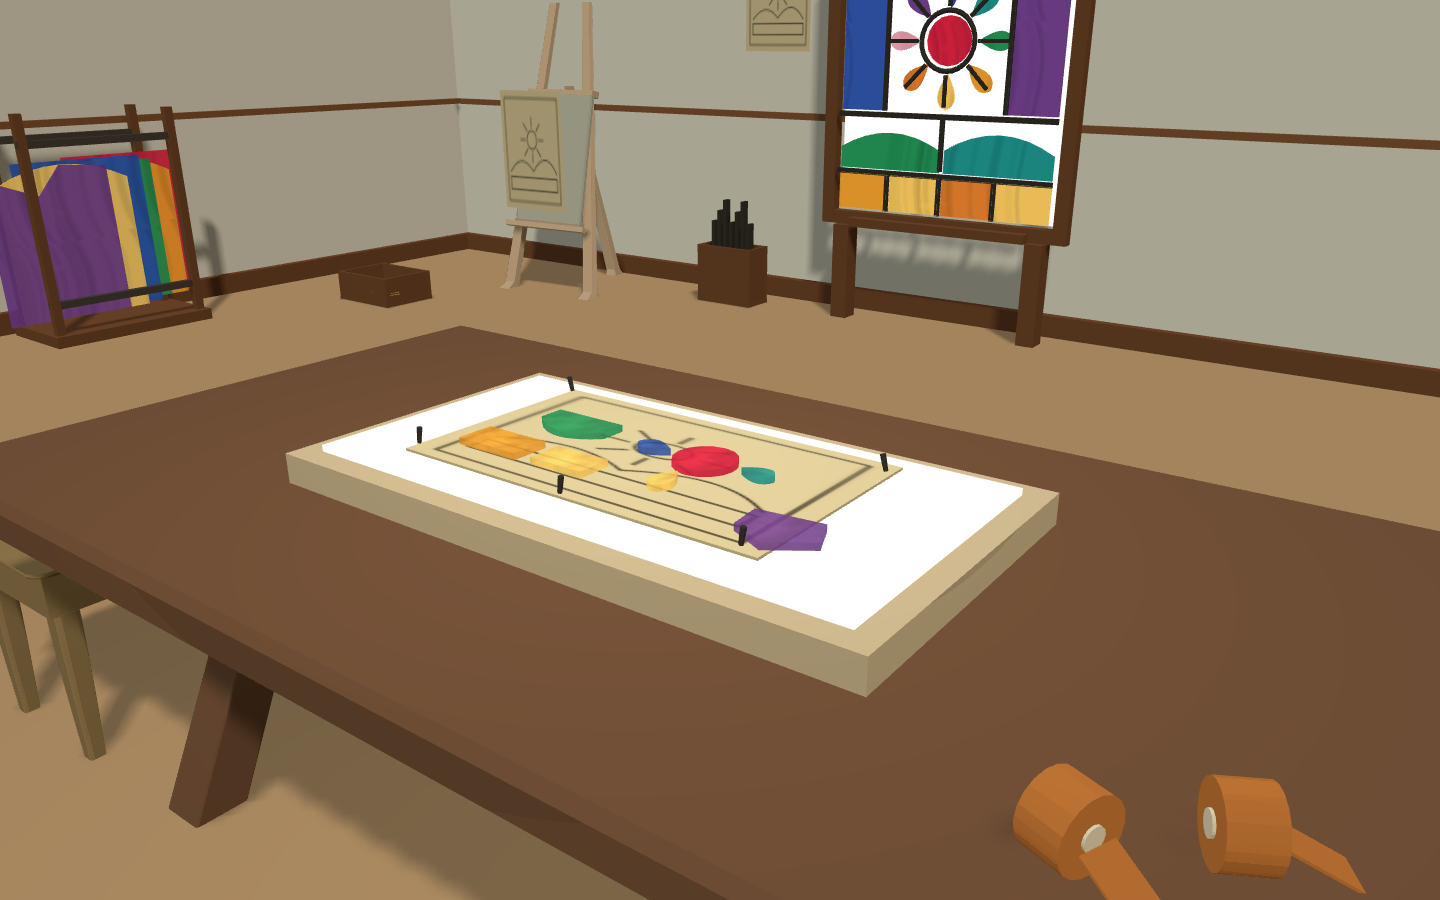
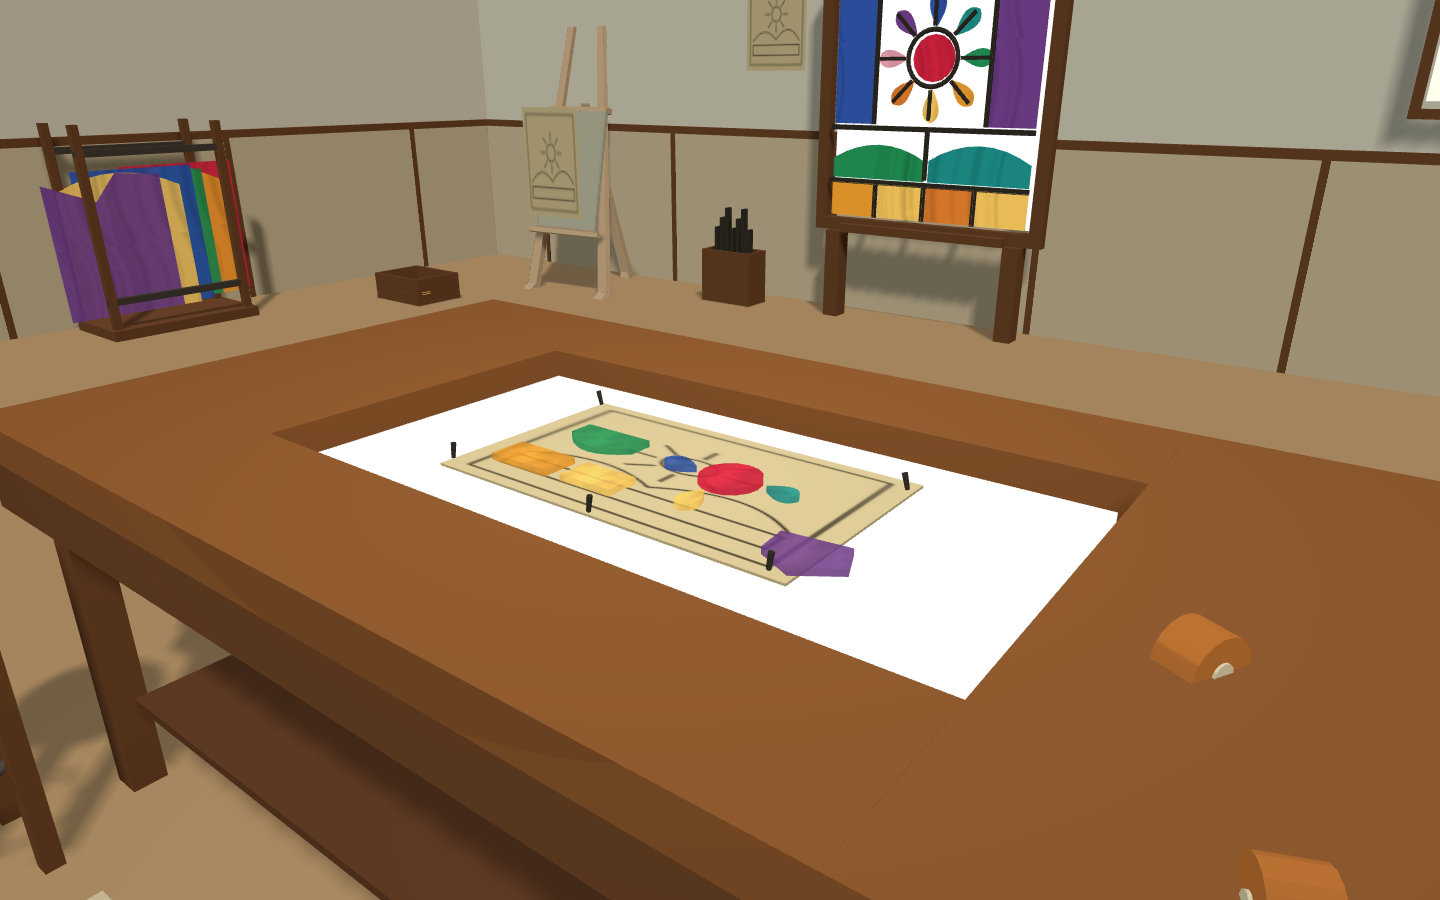
Tighten the stained-glass shop so the stations read as workbenches.
Replace the dining trestle, student desk, and cafe chair with shop benches and four-leg stools, recess the light well, finish the ceiling, and add a dado plus one hanging panel. Pull the default and corner cameras in so the racks, window, light table, and solder hood share the frame.

diff --git a/experiments/indoor30-20261113/stained-glass/stained.js b/experiments/indoor30-20261113/stained-glass/stained.js
@@ -378,25 +378,79 @@ function addRacks(g, racks, shell) {
   });
 }
 
+function addWorkbench(g, spec, shell) {
+  const { x, z, w, d, top } = spec;
+  const wood = toon(shell.woodColor);
+  const slab = toon('#9a6238');
+  const leg = 0.065;
+  const legH = top - 0.08;
+  const inset = 0.055;
+  if (spec.recess) {
+    const ww = spec.wellW;
+    const wd = spec.wellD;
+    const railX = (w - ww) / 2;
+    const railZ = (d - wd) / 2;
+    const y = top - 0.035;
+    addBox(g, railX, 0.07, d, slab, x - (ww + railX) / 2, y, z);
+    addBox(g, railX, 0.07, d, slab, x + (ww + railX) / 2, y, z);
+    addBox(g, ww, 0.07, railZ, slab, x, y, z - (wd + railZ) / 2);
+    addBox(g, ww, 0.07, railZ, slab, x, y, z + (wd + railZ) / 2);
+    const bed = addBox(
+      g, ww - 0.06, 0.016, wd - 0.05,
+      toon('#fff8ee', { emissive: '#fff4e0', emissiveIntensity: 1.3 }),
+      x, top - 0.052, z,
+    );
+    tagShadow(bed, false);
+  } else {
+    addBox(g, w, 0.07, d, slab, x, top - 0.035, z);
+  }
+  const apronH = 0.1;
+  const apronY = top - 0.12;
+  addBox(g, w - 0.02, apronH, 0.028, wood, x, apronY, z + d / 2 - 0.02);
+  addBox(g, w - 0.02, apronH, 0.028, wood, x, apronY, z - d / 2 + 0.02);
+  addBox(g, 0.028, apronH, d - 0.08, wood, x - w / 2 + 0.02, apronY, z);
+  addBox(g, 0.028, apronH, d - 0.08, wood, x + w / 2 - 0.02, apronY, z);
+  for (const sx of [-1, 1]) {
+    for (const sz of [-1, 1]) {
+      addBox(
+        g, leg, legH, leg, wood,
+        x + sx * (w / 2 - inset - leg / 2),
+        legH / 2,
+        z + sz * (d / 2 - inset - leg / 2),
+      );
+    }
+  }
+  addBox(g, w - 0.28, 0.018, d - 0.18, toon('#6a432c'), x, 0.2, z);
+}
+
+function addStool(g, x, z, shell) {
+  const wood = toon(shell.woodColor);
+  const seatY = 0.62;
+  addCyl(g, 0.155, 0.16, 0.042, toon('#9a6238'), x, seatY, z, 16);
+  const legH = seatY - 0.03;
+  for (const sx of [-1, 1]) {
+    for (const sz of [-1, 1]) {
+      addBox(g, 0.034, legH, 0.034, wood, x + sx * 0.1, legH / 2, z + sz * 0.1);
+    }
+  }
+  const ring = new THREE.Mesh(new THREE.TorusGeometry(0.115, 0.008, 6, 18), toon('#5c564f'));
+  ring.rotation.x = Math.PI / 2;
+  ring.position.set(x, 0.22, z);
+  ring.castShadow = false;
+  g.add(ring);
+}
+
 function addLightTable(g, zone, shell) {
   const { x, z, top } = zone;
-  const wood = toon('#d9c4a2');
-  const box = addBox(g, 1.04, 0.05, 0.56, wood, x, top + 0.025, z);
-  box.castShadow = true;
-  const panel = addBox(
-    g, 0.96, 0.014, 0.48,
-    toon('#fff8ee', { emissive: '#fff4e0', emissiveIntensity: 1.35 }),
-    x, top + 0.054, z,
-  );
-  tagShadow(panel, false);
+  addWorkbench(g, { ...zone, recess: true }, shell);
   const paper = addBox(
     g, 0.66, 0.004, 0.38,
     toon('#f3ead2', { map: cartoon(), polygonOffset: true, polygonOffsetFactor: -1, polygonOffsetUnits: -1 }),
-    x - 0.02, top + 0.064, z - 0.01,
+    x - 0.02, top - 0.038, z - 0.01,
   );
   tagShadow(paper, false);
 
-  const y = top + 0.074;
+  const y = top - 0.028;
   const see = { opacity: 0.62, glow: 0.48 };
   addFlatGlass(g, rect(0.12, 0.065), GLASS.amber, x - 0.22, y, z + 0.1, see);
   addFlatGlass(g, rect(0.1, 0.06), GLASS.gold, x - 0.08, y, z + 0.1, see);
@@ -416,11 +470,12 @@ function addLightTable(g, zone, shell) {
     n.castShadow = false;
   });
 
-  foilRoll(g, shell, x + 0.9, top, z + 0.32, 0.5);
-  foilRoll(g, shell, x + 0.78, top, z + 0.4, -0.4);
+  foilRoll(g, shell, x + zone.w / 2 - 0.22, top - 0.04, z + zone.d / 2 - 0.16, 0.4);
+  foilRoll(g, shell, x + zone.w / 2 - 0.34, top - 0.04, z + 0.12, -0.5);
 }
 
 function addSolder(g, zone, vent, shell) {
+  addWorkbench(g, zone, shell);
   const y = zone.top;
   const ix = zone.ironX;
   const z = zone.z + 0.02;
@@ -504,6 +559,7 @@ function addSolder(g, zone, vent, shell) {
 }
 
 function addCutting(g, zone, shell) {
+  addWorkbench(g, zone, shell);
   const { x, z, top } = zone;
   const y = top + 0.01;
   addFlatGlass(g, rect(0.22, 0.14), GLASS.amber, x - 0.06, y, z + 0.02, { opacity: 0.84, glow: 0.3 });
@@ -611,21 +667,67 @@ function addStorage(g, layout, shell) {
   g.add(board);
 }
 
+function addWallPanel(g, shell) {
+  const x = 0.95;
+  const y0 = 1.18;
+  const z = -3.84;
+  const w = 0.58;
+  const h = 0.7;
+  const wood = toon(shell.woodColor);
+  addBox(g, w, 0.04, 0.04, wood, x, y0, z);
+  addBox(g, w, 0.04, 0.04, wood, x, y0 + h, z);
+  addBox(g, 0.04, h, 0.04, wood, x - w / 2 + 0.02, y0 + h / 2, z);
+  addBox(g, 0.04, h, 0.04, wood, x + w / 2 - 0.02, y0 + h / 2, z);
+  const glow = addBox(
+    g, w - 0.1, h - 0.1, 0.012,
+    toon('#fff6e8', { emissive: '#fff1d4', emissiveIntensity: 0.85 }),
+    x, y0 + h / 2, z - 0.012,
+  );
+  tagShadow(glow, false);
+  const grp = new THREE.Group();
+  grp.position.set(x, y0 + h / 2, z);
+  addUprightGlass(grp, disk(0, 0, 0.09), GLASS.ruby, 0.012, { glow: 0.55, opacity: 0.9 });
+  const colors = [GLASS.gold, GLASS.emerald, GLASS.cobalt, GLASS.amber, GLASS.teal, GLASS.violet];
+  for (let i = 0; i < 6; i++) {
+    const a = -Math.PI / 2 + (i * Math.PI) / 3;
+    addUprightGlass(grp, petal(0, 0, a, 0.11, 0.2, 0.38), colors[i], 0.01, { glow: 0.45, opacity: 0.88 });
+  }
+  const ring = new THREE.Mesh(new THREE.TorusGeometry(0.105, 0.008, 6, 20), toon(shell.leadColor));
+  ring.position.z = 0.02;
+  ring.castShadow = false;
+  grp.add(ring);
+  g.add(grp);
+}
+
 function makeShell(layout) {
   const room = layout.meta.room;
   const g = makeCutawayShell(layout, {
-    ceilingW: room.width * 0.98,
-    ceilingD: room.depth * 0.62,
-    ceilingX: -0.15,
-    ceilingZ: -1.35,
+    ceilingW: room.width,
+    ceilingD: room.depth,
+    ceilingX: 0,
+    ceilingZ: 0,
   });
   const { width: W, depth: D, height: H } = room;
   const wood = toon(layout.shell.woodColor);
   const trim = toon(layout.shell.trimColor);
-  addBox(g, W - 0.16, 0.11, 0.05, wood, 0, 0.055, -D / 2 + 0.1);
-  addBox(g, 0.05, 0.11, D - 0.16, wood, -W / 2 + 0.1, 0.055, 0);
-  addBox(g, W - 0.28, 0.035, 0.03, trim, 0, 1.02, -D / 2 + 0.09);
-  addBox(g, 0.03, 0.035, D - 0.4, trim, -W / 2 + 0.09, 1.02, -0.2);
+  const dado = toon(layout.shell.dadoColor || '#e3d2b8');
+  const dadoH = 0.98;
+  const backZ = -D / 2 + 0.09;
+  const leftX = -W / 2 + 0.09;
+  const backPanel = addBox(g, W - 0.2, dadoH, 0.03, dado, 0, dadoH / 2, backZ);
+  const leftPanel = addBox(g, 0.03, dadoH, D - 0.2, dado, leftX, dadoH / 2, 0);
+  backPanel.userData.noCast = true;
+  leftPanel.userData.noCast = true;
+  addBox(g, W - 0.16, 0.045, 0.045, wood, 0, dadoH + 0.02, backZ);
+  addBox(g, 0.045, 0.045, D - 0.16, wood, leftX, dadoH + 0.02, 0);
+  for (let x = -W / 2 + 0.7; x < W / 2 - 0.3; x += 1.25) {
+    const stile = addBox(g, 0.035, dadoH, 0.02, wood, x, dadoH / 2, backZ + 0.01);
+    stile.userData.noCast = true;
+  }
+  for (let z = -D / 2 + 0.8; z < D / 2 - 0.4; z += 1.35) {
+    const stile = addBox(g, 0.02, dadoH, 0.035, wood, leftX + 0.01, dadoH / 2, z);
+    stile.userData.noCast = true;
+  }
   const path = layout.zones.path;
   const mat = addBox(
     g, path.w, 0.012, path.d,
@@ -633,8 +735,13 @@ function makeShell(layout) {
     path.x, 0.006, path.z,
   );
   mat.castShadow = false;
-  const beamA = addBox(g, W * 0.72, 0.07, 0.08, trim, -0.35, H - 0.18, -2.55);
-  const beamB = addBox(g, W * 0.72, 0.07, 0.08, trim, -0.35, H - 0.18, -0.85);
+  const fascia = toon(layout.shell.trimColor);
+  const front = addBox(g, W, 0.2, 0.1, fascia, 0, H - 0.16, D / 2 - 0.05);
+  const right = addBox(g, 0.1, 0.2, D, fascia, W / 2 - 0.05, H - 0.16, 0);
+  front.userData.noCast = true;
+  right.userData.noCast = true;
+  const beamA = addBox(g, W * 0.86, 0.06, 0.08, trim, 0, H - 0.2, -2.2);
+  const beamB = addBox(g, W * 0.86, 0.06, 0.08, trim, 0, H - 0.2, -0.4);
   beamA.userData.noCast = true;
   beamB.userData.noCast = true;
   return g;
@@ -645,8 +752,10 @@ function makeProcedural(layout) {
   g.name = 'procedural';
   const shell = layout.shell;
   addWindow(g, layout.zones.window, shell);
+  addWallPanel(g, shell);
   addRacks(g, layout.zones.racks, shell);
   addLightTable(g, layout.zones.lightTable, shell);
+  for (const stool of layout.zones.stools) addStool(g, stool.x, stool.z, shell);
   addSolder(g, layout.zones.solder, layout.zones.vent, shell);
   addCutting(g, layout.zones.cutting, shell);
   addStorage(g, layout, shell);

diff --git a/experiments/indoor30-20261113/stained-glass/scene_lib.js b/experiments/indoor30-20261113/stained-glass/scene_lib.js
@@ -350,6 +350,10 @@ export async function boot(opts) {
       const p = presets[camKey];
       camera.position.set(...p.position);
       controls.target.set(...p.target);
+      if (p.fov) {
+        camera.fov = p.fov;
+        camera.updateProjectionMatrix();
+      }
       controls.update();
     }
 

diff --git a/experiments/indoor30-20261113/stained-glass/tests/layout_clearance.py b/experiments/indoor30-20261113/stained-glass/tests/layout_clearance.py
@@ -13,11 +13,6 @@ HTML = (ROOT / "index.html").read_text()
 
 # World-axis extents in metres, from node-transformed GLB bounds.
 NATIVE = {
-    "long_dining": (1.8000, 0.7273, 0.9376),
-    "piano_bench": (0.9018, 0.4726, 0.4351),
-    "study_desk": (0.3691, 0.6490, 1.1000),
-    "simple_chair": (0.4752, 0.8500, 0.5010),
-    "square_table": (1.2000, 1.1840, 1.2000),
     "wall_shelf": (0.7012, 0.8000, 0.2873),
     "easel": (0.7070, 1.7000, 0.8000),
     "pendant_lamp": (0.2463, 0.4490, 0.2463),
@@ -78,6 +73,10 @@ check("NearestFilter" in LIB, "toon gradient is not hard-stepped")
 check("MeshBasicMaterial" in LIB, "unlit path is missing")
 check("ExtrudeGeometry" in SCENE, "coloured glass is not extruded sheet")
 check("transparent: true" in SCENE, "coloured glass is opaque")
+check("function addWorkbench" in SCENE, "workbench silhouette missing")
+check("function addStool" in SCENE, "work stool missing")
+check("simple_chair" not in SCENE and "long_dining" not in SCENE, "dining table or cafe chair leaked back")
+check("ceilingD: room.depth" in SCENE, "ceiling does not span the room")
 check(SCENE.count("foil-roll") >= 1 or "foilRoll" in SCENE, "foil rolls missing")
 for banned in ("glory", "blowpipe", "lehr", "furnace", "marver"):
     check(banned not in SCENE.lower(), f"hot-shop term {banned} leaked into the cold shop")
@@ -100,8 +99,7 @@ for iid, box in boxes.items():
     check(box[3] < H + 0.02, f"{iid} pokes through the ceiling {box}")
     check(box[2] > -0.02, f"{iid} is below the floor {box}")
 
-skip_kinds = {("jam_jar", "study_desk"), ("jam_jar", "square_table"), ("jam_jar", "wall_shelf"),
-              ("library_lamp", "study_desk")}
+skip_kinds = {("jam_jar", "wall_shelf")}
 ids = list(instances)
 for i, a in enumerate(ids):
     for b in ids[i + 1:]:
@@ -112,12 +110,10 @@ for i, a in enumerate(ids):
             fails.append(f"overlap {a} and {b}")
 
 zones = LAYOUT["zones"]
-table = instances["light_table"]
-check(abs(table["position"][0] - zones["lightTable"]["x"]) < 0.02, "light table drifted from its zone")
-check(abs(table["position"][2] - zones["lightTable"]["z"]) < 0.02, "light table z drifted")
-check(abs(LAYOUT["assets"]["long_dining"]["targetHeight"] - zones["lightTable"]["top"]) < 0.01, "light table height")
-desk = instances["solder_desk"]
-check(abs(desk["position"][0] - zones["solder"]["x"]) < 0.02, "solder desk drifted")
+for key in ("lightTable", "solder", "cutting"):
+    bench = zones[key]
+    check(bench["w"] >= 1.0 and bench["d"] >= 0.6 and 0.74 <= bench["top"] <= 0.95, f"{key} is not a workbench")
+check(len(zones["stools"]) >= 2, "need a stool at the light table and the solder bench")
 check(abs(zones["vent"]["x"] - zones["solder"]["ironX"]) < 0.15, "vent is not over the iron")
 check(abs(zones["vent"]["z"] - zones["solder"]["z"]) < 0.25, "vent is not at the solder bench")
 
@@ -140,9 +136,10 @@ check(len(zones["racks"]) >= 2, "need two sheet racks")
 for rk in zones["racks"]:
     check(rk["x"] < -W / 2 + 0.7, f"rack is not against the left wall {rk}")
 
-solder_front = boxes["solder_desk"][5]
-cut_back = boxes["cut_table"][4]
-check(cut_back - solder_front > 0.9, "cutting bench is inside the solder station")
+solder = zones["solder"]
+cutting = zones["cutting"]
+gap = (cutting["z"] - cutting["d"] / 2) - (solder["z"] + solder["d"] / 2)
+check(gap > 0.9, f"cutting bench is inside the solder station ({gap:.2f} m)")
 
 shots = ["toon_default.png", "toon_corner.png", "toon_detail.png", "unlit_default.png"]
 for name in shots:

diff --git a/experiments/indoor30-20261113/stained-glass/ATTRIBUTIONS.md b/experiments/indoor30-20261113/stained-glass/ATTRIBUTIONS.md
@@ -2,16 +2,13 @@
 
 Furniture is referenced from existing Sandflow/sand3d-objaverse bakes (CC-BY-4.0). Files are not copied. Sheet glass, the leaded window, foil rolls, the soldering iron, the vent hood, came, the grinder, and the cartoons are local Three.js meshes in `stained.js` and have no external model credit.
 
-- **long_dining** `restaurant/assets/long_dining__fb2f8f65156e.glb` — "Dining Table" trestle, objaverse-fb2f8f65156e45fc88d0adffe021f6ab, CC-BY-4.0. Used as the pattern light table. The glowing panel on top is procedural.
-- **piano_bench** `music/assets/piano_bench__10332493b3a6.glb` — "piano bench" by doriantsanders, objaverse-10332493b3a64b02859519ec64d221d0, CC-BY-4.0
-- **study_desk** `library/assets/study_desk__630f6d76cbcd.glb` — "Study Table for any student room" by athgames, objaverse-630f6d76cbcd49cbb1d8ce7fe4e41f27, CC-BY-4.0. Used as the solder bench.
-- **simple_chair** `cafe/assets/simple_chair__a83a693ec68f.glb` — "Fusion Metal Dining Chair with Wood Seat" by allenbranch, https://sketchfab.com/3d-models/a83a693ec68f47b6aeaeef9c94e6ad9e, CC-BY-4.0
-- **square_table** `workshop/assets/square_table__7aaf2767b5f0.glb` — Groveland Square Dining Table, objaverse-7aaf2767b5f04a80b49c950f0bdb918a, allenbranch, CC-BY-4.0. Used as the cutting bench.
 - **wall_shelf** `cafe/assets/wall_shelf__8732f5e14a30.glb` — "CC0 - Wall Shelf 4" by plaggy, https://sketchfab.com/3d-models/8732f5e14a30461f83bcb34a9101cbc0, CC-BY-4.0
 - **easel** `workshop/assets/easel__4d7f020db965.glb` — canvas easel, objaverse-4d7f020db96545519c43e5b0ec077a83, by shaanshaikh, CC-BY-4.0. Holds the cartoon.
 - **pendant_lamp** `workshop/assets/pendant_lamp__1b528c6ab04e.glb` — "Modern ceiling lamp" by krolzuzannapl, https://sketchfab.com/3d-models/1b528c6ab04e42f990105db142cd71bd, CC-BY-4.0
 - **library_lamp** `library/assets/library_lamp__06accd4e0351.glb` — "Library Desk Lamp" by oriolescolarcano, objaverse-06accd4e0351480e8c4eb2f28fadaa35, CC-BY-4.0. Task lamp on the solder bench. The shade tube is marked emissive.
 - **jam_jar** `cafe/assets/jam_jar__4e43eb29aa14.glb` — "jam jar" by jwpthecoolguy2, https://sketchfab.com/3d-models/4e43eb29aa144bdbada1ec500d218a81, CC-BY-4.0. Stands in for flux, patina, and cutting oil.
+
+The light table, solder bench, and cutting bench are procedural shop benches (thick top, apron, square legs, lower shelf). The light well is recessed in the bench top. The seats are four-leg shop stools with a foot ring. No catalog mesh had that silhouette: the trestle table, student desk, piano bench, square dining table, and metal cafe chair were removed because they read as domestic furniture.
 
 Three.js r170 is imported from `workshop/vendor/` (MIT). This scene does not vendor a second copy.
 

diff --git a/experiments/indoor30-20261113/stained-glass/refs/GAP.md b/experiments/indoor30-20261113/stained-glass/refs/GAP.md
@@ -5,14 +5,14 @@ Photos of a cold shop show a light table or light board, vertical sheet racks, c
 What the existing bakes could not be:
 
 - No sheet glass, leaded panel, came, foil roll, soldering iron, or vent hood in the repo GLBs. Inspected bounds and material names only. No new Hugging Face bake — a specialist bake would have been a new binary, and this folder does not copy shared assets.
-- The trestle table is a dining table with a procedural light box on top. It is not a manufactured light table.
-- The solder bench is a narrow student desk. The task lamp is a library lamp; only the pale shade tube is emissive.
+- The catalog trestle, student desk, piano bench, and metal cafe chair read as domestic furniture. The benches and stools are procedural shop shapes instead. There is still no scanned workbench GLB.
+- The task lamp is a library lamp; only the pale shade tube is emissive.
 - Jam jars stand in for flux, patina, and cutting oil. They read as bottles, not as art glass.
 - The easel is a painter’s easel. The cartoon is a generated line drawing on a plane in front of the canvas.
-- The chair is a metal cafe chair, not a glassworker’s stool.
+- The stools are four-leg shop stools with a foot ring. They are not scanned work stools.
 - Foil rolls are about 8 cm across so they read in the wide shot. Real copper-foil rolls are closer to 4 cm.
 - Glass is hard-step toon with a streak map, partial transparency, and emissive colour. It is not physical transmission, not a refraction shader, and not sorted like studio path tracing. Overlapping rack sheets can blend. The lead lines are solid came in front of the panes.
-- No person, no kiln (a paint kiln would blur this room into hot work), no respirator mesh. The vent hood and the empty foreground pad are the safety cues.
+- No person, no kiln (a paint kiln would blur this room into hot work), no respirator mesh. The vent hood is the safety cue. The standing mat in front of the light table is small on purpose.
 - `wall_shelf` board heights are estimated from the GLB. Jars and foil may sit a centimetre off the board.
 - Contact shadows are the directional map. The toon path has no ambient occlusion. Thin came does not cast, so it does not speckle the window.
 

diff --git a/experiments/indoor30-20261113/stained-glass/README.md b/experiments/indoor30-20261113/stained-glass/README.md
@@ -14,8 +14,8 @@ python3 -m http.server 8793 --bind 127.0.0.1
 ```
 
 - http://127.0.0.1:8793/experiments/indoor30-20261113/stained-glass/
-- `?cam=corner` solder bench, foil, vent hood
-- `?cam=detail` light-table glass
+- `?cam=corner` solder bench, stool, foil, vent hood
+- `?cam=detail` light-table glass in the recessed well
 - `?mode=unlit`
 - `T` toon · `U` unlit · `?hud=0` hides the overlay
 
